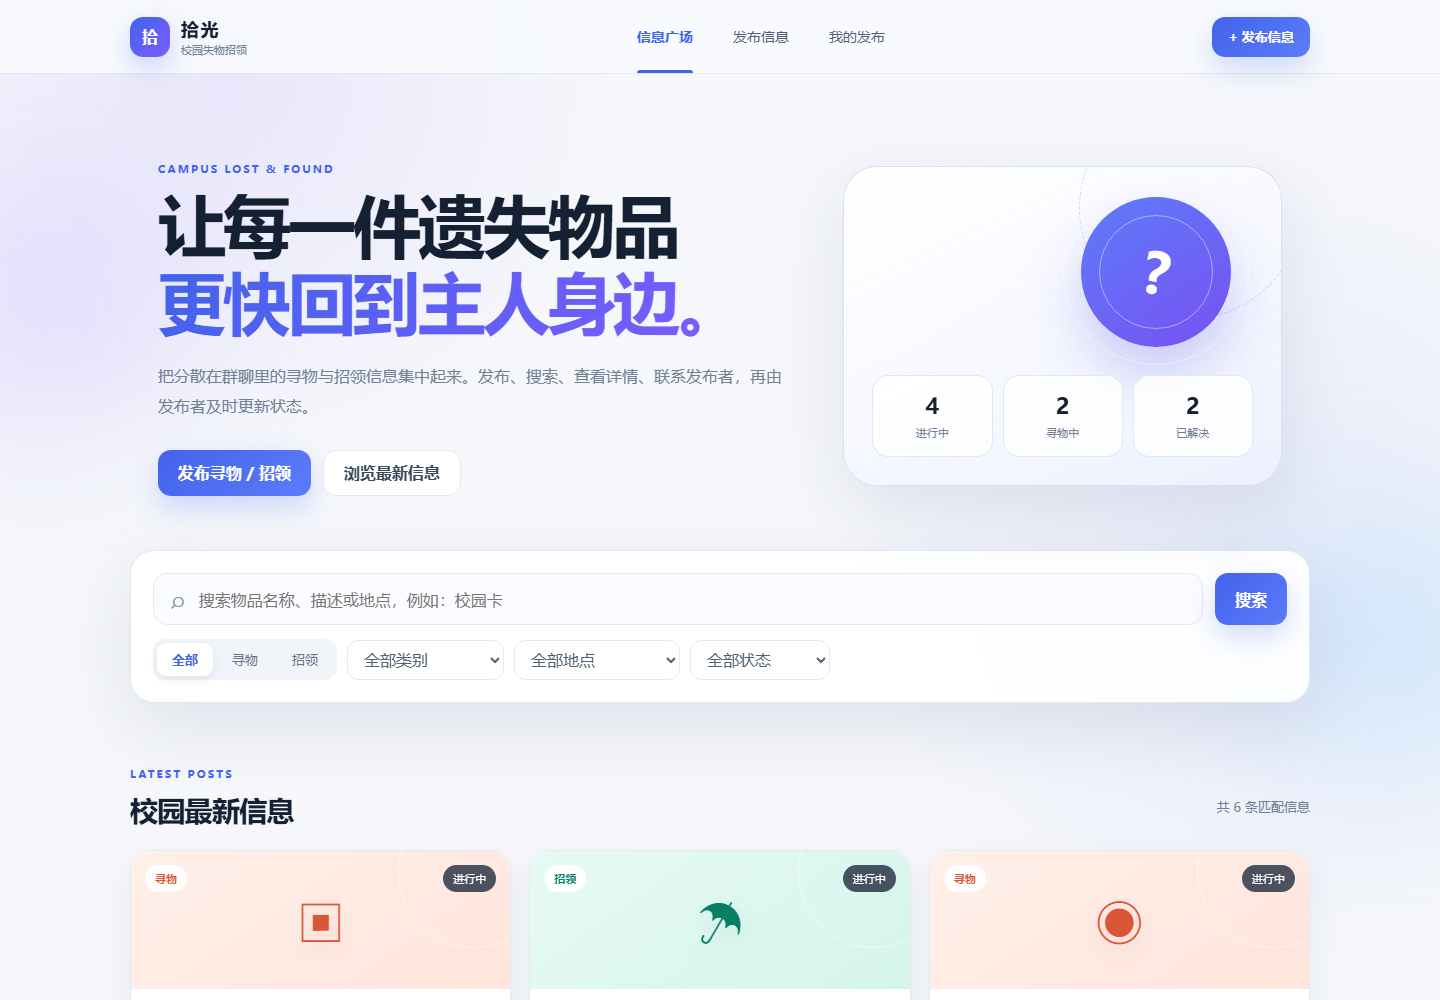
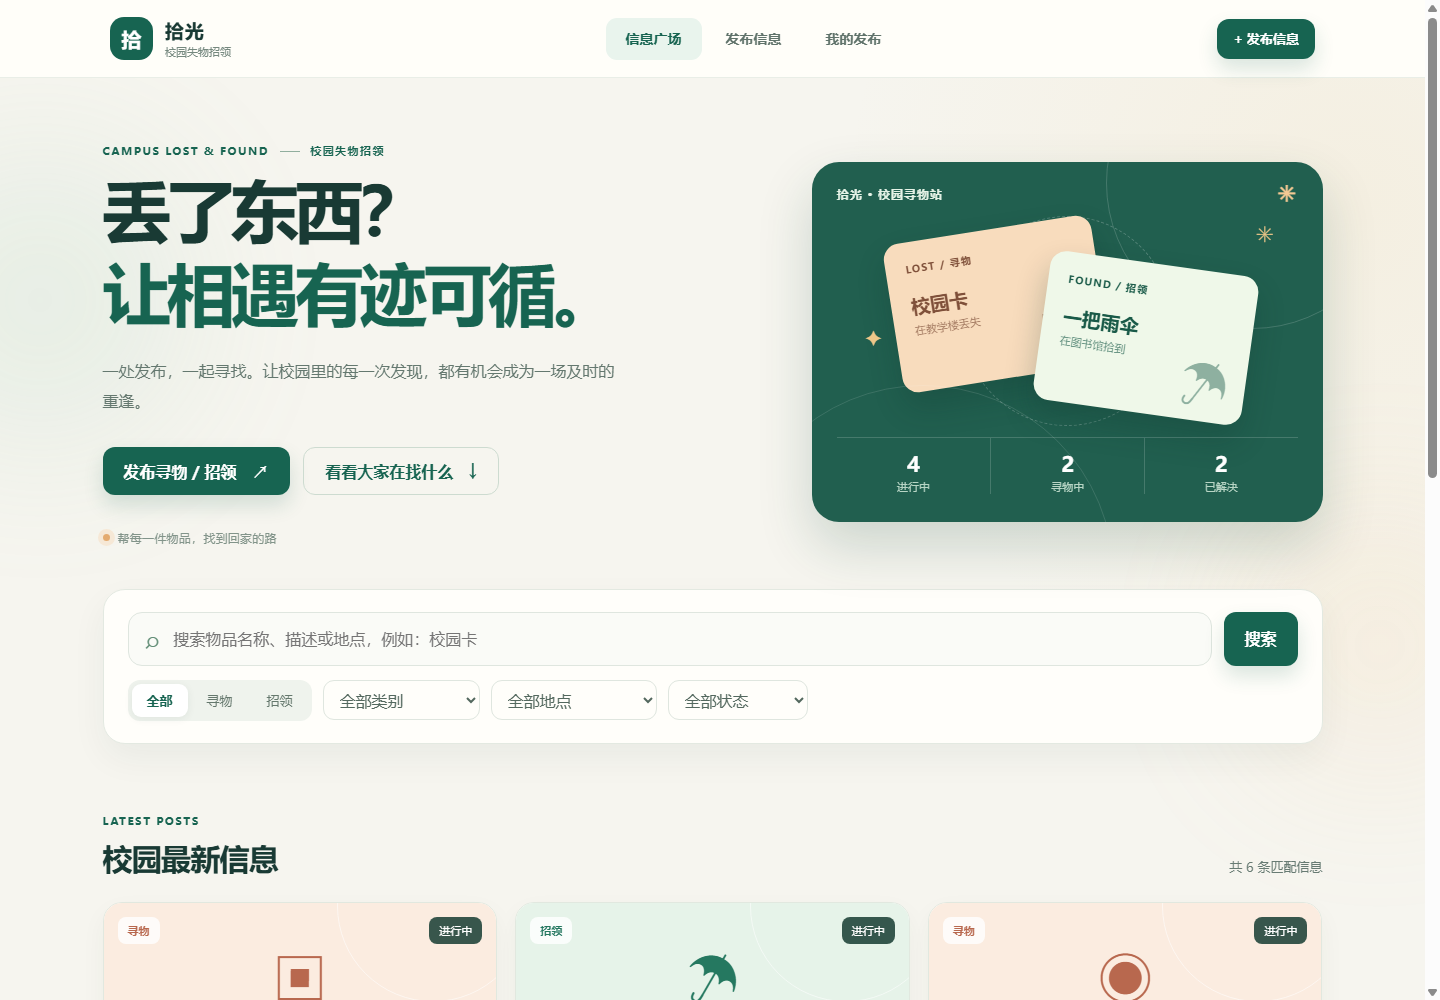
feat: refresh campus lost and found interface

diff --git a/校园失物招领-结对编程作业/css/styles.css b/校园失物招领-结对编程作业/css/styles.css
@@ -188,3 +188,187 @@ fieldset { border:0;padding:0;margin:0 0 24px; } legend { font-weight:800;margin
   .search-row{flex-direction:column}.filter-row{align-items:stretch}.segmented{width:100%}.segmented button{flex:1}.filter-row select{flex:1;min-width:calc(50% - 5px)}
   .item-grid,.steps,.form-grid,.type-choice,.mine-stats{grid-template-columns:1fr}.form-grid .wide{grid-column:auto}.page-intro h1{font-size:34px}.inline-intro{align-items:start;flex-direction:column}.mine-row{grid-template-columns:48px 1fr}.mine-actions{grid-column:1/-1;justify-content:flex-end}.detail-facts{grid-template-columns:1fr}.section-heading{align-items:start;flex-direction:column}
 }
+
+/* Visual refresh: a warm campus noticeboard with clear, readable controls. */
+:root {
+  --bg: #f6f5ef;
+  --surface: #fffefa;
+  --text: #193a34;
+  --muted: #687b73;
+  --line: #dfe6df;
+  --brand: #176451;
+  --brand-2: #2e8b72;
+  --brand-soft: #e5f3ec;
+  --lost: #bd684b;
+  --lost-soft: #fff0e6;
+  --found: #267e65;
+  --found-soft: #e6f5ed;
+  --shadow: 0 20px 55px rgba(25, 58, 52, .075);
+  --radius: 22px;
+}
+body {
+  background: radial-gradient(circle at 95% 10%, rgba(232, 197, 129, .13), transparent 32rem), var(--bg);
+}
+::selection { background: #cce8d7; color: var(--text); }
+:focus-visible { outline: 3px solid #e99a62; outline-offset: 3px; }
+.ambient { opacity: .16; filter: blur(85px); }
+.ambient-a { background: #8bc6a9; }
+.ambient-b { background: #f3c58c; }
+.site-header {
+  height: 78px;
+  padding: 0 max(30px, calc((100vw - 1220px) / 2));
+  background: rgba(255, 254, 250, .94);
+  border-color: #e9eee7;
+}
+.brand { gap: 12px; }
+.brand-mark { width: 43px; height: 43px; border-radius: 14px; background: var(--brand); box-shadow: none; font-size: 20px; }
+.brand strong { font-size: 19px; letter-spacing: .045em; }
+.brand small { color: #75887e; }
+.main-nav { align-items: center; gap: 4px; }
+.main-nav a { height: 42px; border-radius: 11px; padding: 0 20px; font-weight: 600; color: #60736b; }
+.main-nav a:hover { color: var(--brand); background: #f0f5ee; }
+.main-nav a.active { background: #e9f4ed; color: var(--brand); }
+.main-nav a.active::after { display: none; }
+.app-shell { width: min(1220px, calc(100% - 60px)); padding-top: 34px; }
+.primary-btn, .ghost-btn { border-radius: 12px; min-height: 48px; padding: 0 21px; }
+.primary-btn { background: var(--brand); box-shadow: 0 10px 20px rgba(23, 100, 81, .16); }
+.primary-btn:hover { background: #0f5344; box-shadow: 0 14px 25px rgba(23, 100, 81, .24); }
+.ghost-btn { background: transparent; border-color: #cddbd0; color: var(--brand); }
+.ghost-btn:hover { background: #f0f7f0; border-color: #a7c9b5; }
+.hero { min-height: 450px; grid-template-columns: 1.13fr .87fr; gap: 46px; padding: 26px 0 43px; }
+.eyebrow { color: var(--brand); font-size: 11px; letter-spacing: .13em; }
+.eyebrow-line { display: inline-block; width: 20px; height: 1px; margin: 0 6px 3px; background: #91ae9e; }
+.hero h1 { font-size: clamp(42px, 5.1vw, 68px); line-height: 1.22; letter-spacing: -.055em; }
+.hero h1 span { color: var(--brand); background: none; }
+.hero-copy > p { max-width: 520px; color: #64786f; font-size: 16px; line-height: 1.9; margin: 22px 0 30px; }
+.hero-actions { gap: 13px; }
+.hero-actions button span { margin-left: 10px; font-size: 18px; font-weight: 400; }
+.hero-footnote { display: flex; align-items: center; gap: 8px; margin-top: 35px; color: #82948a; font-size: 12px; letter-spacing: .02em; }
+.footnote-dot { width: 7px; height: 7px; border-radius: 50%; background: #e4ab70; box-shadow: 0 0 0 5px #f6e8d6; }
+.hero-panel { height: 360px; display: block; padding: 24px 25px; border: 0; border-radius: 27px; background: #215f4f; box-shadow: 0 24px 54px rgba(20, 74, 61, .19); }
+.hero-panel::before { width: 290px; height: 290px; right: -75px; top: -125px; border: 1px solid rgba(255,255,255,.17); }
+.hero-panel::after { content: ""; position: absolute; width: 380px; height: 380px; border-radius: 50%; border: 1px solid rgba(255,255,255,.12); bottom: -245px; left: -80px; }
+.hero-panel-top { position: relative; z-index: 2; display: flex; justify-content: space-between; color: #e6f3e7; font-size: 12px; letter-spacing: .08em; font-weight: 700; }
+.hero-panel-top span:last-child { color: #f5c994; font-size: 22px; line-height: 14px; }
+.hero-illustration { position: relative; height: 235px; }
+.illustration-ring { position: absolute; width: 210px; height: 210px; border: 1px dashed rgba(255,255,255,.23); border-radius: 50%; left: 50%; top: 14px; transform: translateX(-50%); }
+.floating-card { position: absolute; width: 210px; height: 150px; padding: 20px; border-radius: 16px; box-shadow: 0 16px 30px rgba(11, 51, 42, .24); }
+.floating-card small, .floating-card strong, .floating-card span { display: block; position: relative; z-index: 1; }
+.floating-card small { font-size: 10px; font-weight: 800; letter-spacing: .12em; }
+.floating-card strong { margin-top: 18px; font-size: 19px; }
+.floating-card span { margin-top: 4px; font-size: 11px; opacity: .7; }
+.floating-card i { position: absolute; right: 16px; bottom: 13px; font-size: 51px; font-style: normal; line-height: 1; opacity: .45; }
+.floating-card-back { left: 12%; top: 27px; color: #7f503a; background: #f8dcbd; transform: rotate(-9deg); }
+.floating-card-front { right: 10%; top: 61px; color: #195a48; background: #eff8e9; transform: rotate(8deg); }
+.illustration-spark { position: absolute; color: #eec789; font-size: 22px; }
+.spark-one { left: 6%; top: 120px; }.spark-two { right: 5%; top: 16px; }
+.stat-grid { gap: 0; margin-top: 0; border-top: 1px solid rgba(255,255,255,.17); }
+.stat-box { padding: 13px 5px 0; border: 0; border-radius: 0; background: transparent; color: white; }
+.stat-box + .stat-box { border-left: 1px solid rgba(255,255,255,.17); }
+.stat-box strong { font-size: 21px; line-height: 1.2; }.stat-box span { display: block; margin-top: 3px; color: #b8d5c5; font-size: 11px; }
+.toolbar-card { border-color: #e3e9e1; padding: 22px 24px; box-shadow: 0 14px 35px rgba(25, 58, 52, .055); }
+.search-box { height: 54px; background: #fafbf7; }
+.search-box:focus-within { border-color: #7db79b; box-shadow: 0 0 0 4px rgba(32, 120, 86, .1); }
+.search-box span { color: #628e77; }
+.filter-row { gap: 11px; }
+.segmented { background: #eff3ed; }
+.segmented button { color: #65786d; }
+.segmented button.active { color: var(--brand); box-shadow: 0 2px 8px rgba(25,58,52,.07); }
+.filter-row select { border-color: var(--line); color: #53685e; background: #fffefa; }
+.clear-filters { border: 0; background: transparent; color: var(--brand); font-size: 12px; font-weight: 700; padding: 10px; }
+.clear-filters:hover, .text-link:hover { text-decoration: underline; }
+.list-section { padding-top: 64px; }
+.section-heading { margin-bottom: 24px; }
+.section-heading h2 { font-size: 30px; }
+.section-heading p { margin-bottom: 3px; }
+.item-grid { gap: 18px; }
+.item-card { border-color: #e1e8df; border-radius: 19px; box-shadow: 0 10px 26px rgba(25, 58, 52, .045); }
+.item-card:hover { box-shadow: 0 19px 36px rgba(25, 58, 52, .1); }
+.item-visual { height: 145px; }
+.item-visual::before { width: 190px; height: 190px; top: -93px; right: -33px; }
+.item-visual::after { content: ""; position: absolute; width: 90px; height: 90px; left: -35px; bottom: -65px; border: 1px solid rgba(255,255,255,.6); border-radius: 50%; }
+.item-visual.lost { background: #fbece0; color: #b8684e; }
+.item-visual.found { background: #e6f3e9; color: #257860; }
+.item-visual .item-icon { font-size: 55px; filter: none; }
+.type-badge, .status-badge { border-radius: 8px; font-size: 11px; }
+.type-badge { background: rgba(255,255,255,.8); }
+.status-badge { background: rgba(28, 65, 55, .88); }
+.item-body { padding: 20px 20px 18px; }
+.item-body > p { color: #708077; }
+.meta-list span { background: #f4f7f2; color: #66786c; }
+.card-footer { padding: 14px 20px; border-color: #eef1ec; }
+.card-footer small { color: #85948a; }
+.text-link { color: var(--brand); }
+.how-it-works { padding-top: 75px; }
+.steps article { min-height: 186px; border-color: #e1e8df; background: #fffefa; }
+.steps article > span { display: inline-grid; place-items: center; width: 34px; height: 34px; border-radius: 10px; color: var(--brand); background: var(--brand-soft); font-size: 11px; }
+.steps h3 { margin-top: 20px; }
+.page-intro { margin-top: 26px; }
+.page-intro h1 { color: var(--text); }
+.form-card, .form-tips, .mine-stat, .mine-row, .detail-main, .contact-card { background: #fffefa; border-color: #dfe7de; box-shadow: 0 12px 35px rgba(25, 58, 52, .045); }
+.type-choice input:checked + span { border-color: #88bda0; background: var(--brand-soft); box-shadow: 0 0 0 3px rgba(32,120,86,.08); }
+.type-choice input:focus-visible + span { outline: 3px solid #e99a62; outline-offset: 3px; }
+.form-grid input, .form-grid select, .form-grid textarea { background: #fbfcf8; }
+.form-grid input:focus, .form-grid select:focus, .form-grid textarea:focus { border-color: #7db79b; box-shadow: 0 0 0 4px rgba(32,120,86,.1); }
+.tip-illustration { background: var(--brand-soft); color: var(--brand); }
+.mini-note, .contact-person { background: #f1f7f0; }
+.small-btn.resolve { background: var(--brand); }
+.detail-hero.lost { background: #fbece0; }.detail-hero.found { background: #e6f3e9; }
+.fact { background: #f4f7f2; }
+.empty-state { border-color: #c9dacb; background: #fffefa; }
+.toast { background: #193a34; }
+@media (max-width: 900px) {
+  .site-header { padding: 0 22px; }
+  .main-nav { display: flex; }
+  .app-shell { width: min(100% - 36px, 1220px); }
+  .hero { grid-template-columns: 1fr; gap: 28px; padding-top: 14px; }
+  .hero-panel { max-width: 650px; width: 100%; margin: 0 auto; }
+}
+@media (max-width: 620px) {
+  .site-header { height: auto; min-height: 106px; display: grid; grid-template-columns: 1fr auto; gap: 0; padding: 9px 16px 0; }
+  .brand { grid-column: 1; min-width: 0; }
+  .brand small { display: block; }
+  .site-header .compact { grid-column: 2; margin-left: auto; min-height: 38px; padding: 0 12px; font-size: 12px; }
+  .main-nav { grid-row: 2; grid-column: 1 / -1; width: 100%; height: 46px; justify-content: space-between; margin-top: 7px; }
+  .main-nav a { flex: 1; height: 40px; padding: 0 4px; font-size: 12px; }
+  .app-shell { width: calc(100% - 28px); padding-top: 20px; }
+  .hero { padding: 16px 2px 30px; gap: 32px; }
+  .hero h1 { font-size: clamp(35px, 9vw, 48px); }
+  .hero-copy > p { font-size: 14px; margin: 16px 0 22px; }
+  .hero-footnote { margin-top: 24px; }
+  .hero-actions { display: grid; grid-template-columns: 1fr; }
+  .hero-actions button { width: 100%; }
+  .hero-panel { height: 308px; padding: 20px; }
+  .hero-illustration { height: 194px; }
+  .floating-card { width: 172px; height: 133px; padding: 15px; }
+  .floating-card strong { margin-top: 13px; font-size: 16px; }
+  .floating-card i { font-size: 41px; }
+  .floating-card-back { left: 3%; top: 20px; }.floating-card-front { right: 3%; top: 49px; }
+  .illustration-ring { width: 185px; height: 185px; }
+  .toolbar-card { padding: 16px; }
+  .filter-row { gap: 8px; }
+  .filter-row select { min-width: calc(50% - 4px); }
+  .clear-filters { margin-left: auto; }
+  .list-section { padding-top: 44px; }
+  .section-heading h2 { font-size: 25px; }
+  .item-grid { gap: 14px; }
+  .how-it-works { padding-top: 54px; }
+  .steps { grid-template-columns: repeat(2, 1fr); gap: 10px; }
+  .steps article { min-height: 170px; padding: 16px; }
+  .steps h3 { margin-top: 16px; }
+  .page-intro { margin-top: 12px; }
+  .page-intro h1 { font-size: 31px; }
+  .form-card, .form-tips { padding: 19px; }
+  .mine-stats { grid-template-columns: repeat(3, 1fr); gap: 8px; }
+  .mine-stat { padding: 12px; }.mine-stat strong { font-size: 21px; }
+  .detail-content { padding: 20px; }
+}
+@media (max-width: 380px) {
+  .brand small { display: none; }
+  .floating-card { width: 158px; }
+  .steps { grid-template-columns: 1fr; }
+}
+@media (prefers-reduced-motion: reduce) {
+  html { scroll-behavior: auto; }
+  *, *::before, *::after { transition-duration: .01ms !important; animation-duration: .01ms !important; }
+}

diff --git a/校园失物招领-结对编程作业/js/app.js b/校园失物招领-结对编程作业/js/app.js
@@ -64,17 +64,31 @@
     $('#categoryFilter', app).value = filters.category;
     $('#locationFilter', app).value = filters.location;
     $('#statusFilter', app).value = filters.status;
-    $$('[data-filter-type]', app).forEach((b) => b.classList.toggle('active', b.dataset.filterType === filters.type));
+    syncTypeButtons();
     renderGrid();
 
     $('#searchBtn', app).addEventListener('click', () => { filters.keyword = $('#searchInput', app).value.trim(); renderGrid(); });
     $('#searchInput', app).addEventListener('keydown', (e) => { if (e.key === 'Enter') { filters.keyword = e.target.value.trim(); renderGrid(); } });
-    $$('[data-filter-type]', app).forEach((btn) => btn.addEventListener('click', () => { filters.type = btn.dataset.filterType; $$('[data-filter-type]',app).forEach((b) => b.classList.toggle('active', b===btn)); renderGrid(); }));
+    $$('[data-filter-type]', app).forEach((btn) => btn.addEventListener('click', () => { filters.type = btn.dataset.filterType; syncTypeButtons(); renderGrid(); }));
     $('#categoryFilter', app).addEventListener('change', (e) => { filters.category = e.target.value; renderGrid(); });
     $('#locationFilter', app).addEventListener('change', (e) => { filters.location = e.target.value; renderGrid(); });
     $('#statusFilter', app).addEventListener('change', (e) => { filters.status = e.target.value; renderGrid(); });
+    $('#clearFilters', app).addEventListener('click', resetFilters);
     $('[data-action="hero-publish"]', app).addEventListener('click', () => navigate('#publish'));
     $('[data-action="scroll-list"]', app).addEventListener('click', () => $('#listingSection', app).scrollIntoView({behavior:'smooth'}));
+  }
+
+  function syncTypeButtons() {
+    $$('[data-filter-type]', app).forEach((button) => {
+      const selected = button.dataset.filterType === filters.type;
+      button.classList.toggle('active', selected);
+      button.setAttribute('aria-pressed', String(selected));
+    });
+  }
+
+  function resetFilters() {
+    filters = { keyword:'', type:'all', category:'all', location:'all', status:'all' };
+    renderHome();
   }
 
   function renderGrid() {
@@ -83,9 +97,10 @@
     grid.innerHTML = result.map(itemCard).join('');
     grid.hidden = result.length === 0; empty.hidden = result.length !== 0;
     $('#resultCount', app).textContent = `共 ${result.length} 条匹配信息`;
+    $('#clearFilters', app).hidden = !filters.keyword && ['type','category','location','status'].every((key) => filters[key] === 'all');
     $$('[data-detail]', grid).forEach((btn) => btn.addEventListener('click', () => navigate(`#detail/${encodeURIComponent(btn.dataset.detail)}`)));
     const reset = $('[data-action="reset-filter"]', app);
-    if (reset) reset.addEventListener('click', () => { filters = { keyword:'', type:'all', category:'all', location:'all', status:'all' }; renderHome(); });
+    if (reset) reset.addEventListener('click', resetFilters);
   }
 
   function renderPublish() {

diff --git a/校园失物招领-结对编程作业/index.html b/校园失物招领-结对编程作业/index.html
@@ -32,16 +32,23 @@
   <template id="homeTemplate">
     <section class="hero">
       <div class="hero-copy">
-        <span class="eyebrow">CAMPUS LOST &amp; FOUND</span>
-        <h1>让每一件遗失物品<br><span>更快回到主人身边。</span></h1>
-        <p>把分散在群聊里的寻物与招领信息集中起来。发布、搜索、查看详情、联系发布者，再由发布者及时更新状态。</p>
+        <span class="eyebrow">CAMPUS LOST &amp; FOUND <span class="eyebrow-line" aria-hidden="true"></span> 校园失物招领</span>
+        <h1>丢了东西？<br><span>让相遇有迹可循。</span></h1>
+        <p>一处发布，一起寻找。让校园里的每一次发现，都有机会成为一场及时的重逢。</p>
         <div class="hero-actions">
-          <button class="primary-btn" type="button" data-action="hero-publish">发布寻物 / 招领</button>
-          <button class="ghost-btn" type="button" data-action="scroll-list">浏览最新信息</button>
+          <button class="primary-btn" type="button" data-action="hero-publish">发布寻物 / 招领 <span aria-hidden="true">↗</span></button>
+          <button class="ghost-btn" type="button" data-action="scroll-list">看看大家在找什么 <span aria-hidden="true">↓</span></button>
         </div>
+        <div class="hero-footnote"><span class="footnote-dot" aria-hidden="true"></span> 帮每一件物品，找到回家的路</div>
       </div>
-      <div class="hero-panel" aria-label="今日概览">
-        <div class="hero-orbit" aria-hidden="true"><span>?</span></div>
+      <div class="hero-panel" aria-label="广场概览">
+        <div class="hero-panel-top"><span>拾光 · 校园寻物站</span><span aria-hidden="true">✳</span></div>
+        <div class="hero-illustration" aria-hidden="true">
+          <div class="illustration-ring"></div>
+          <div class="floating-card floating-card-back"><small>LOST / 寻物</small><strong>校园卡</strong><span>在教学楼丢失</span><i>▣</i></div>
+          <div class="floating-card floating-card-front"><small>FOUND / 招领</small><strong>一把雨伞</strong><span>在图书馆拾到</span><i>☂</i></div>
+          <div class="illustration-spark spark-one">✦</div><div class="illustration-spark spark-two">✳</div>
+        </div>
         <div class="stat-grid" id="heroStats"></div>
       </div>
     </section>
@@ -67,6 +74,7 @@
           <option value="active">进行中</option>
           <option value="resolved">已解决</option>
         </select>
+        <button class="clear-filters" id="clearFilters" type="button" hidden>清空筛选 ×</button>
       </div>
     </section>
 
